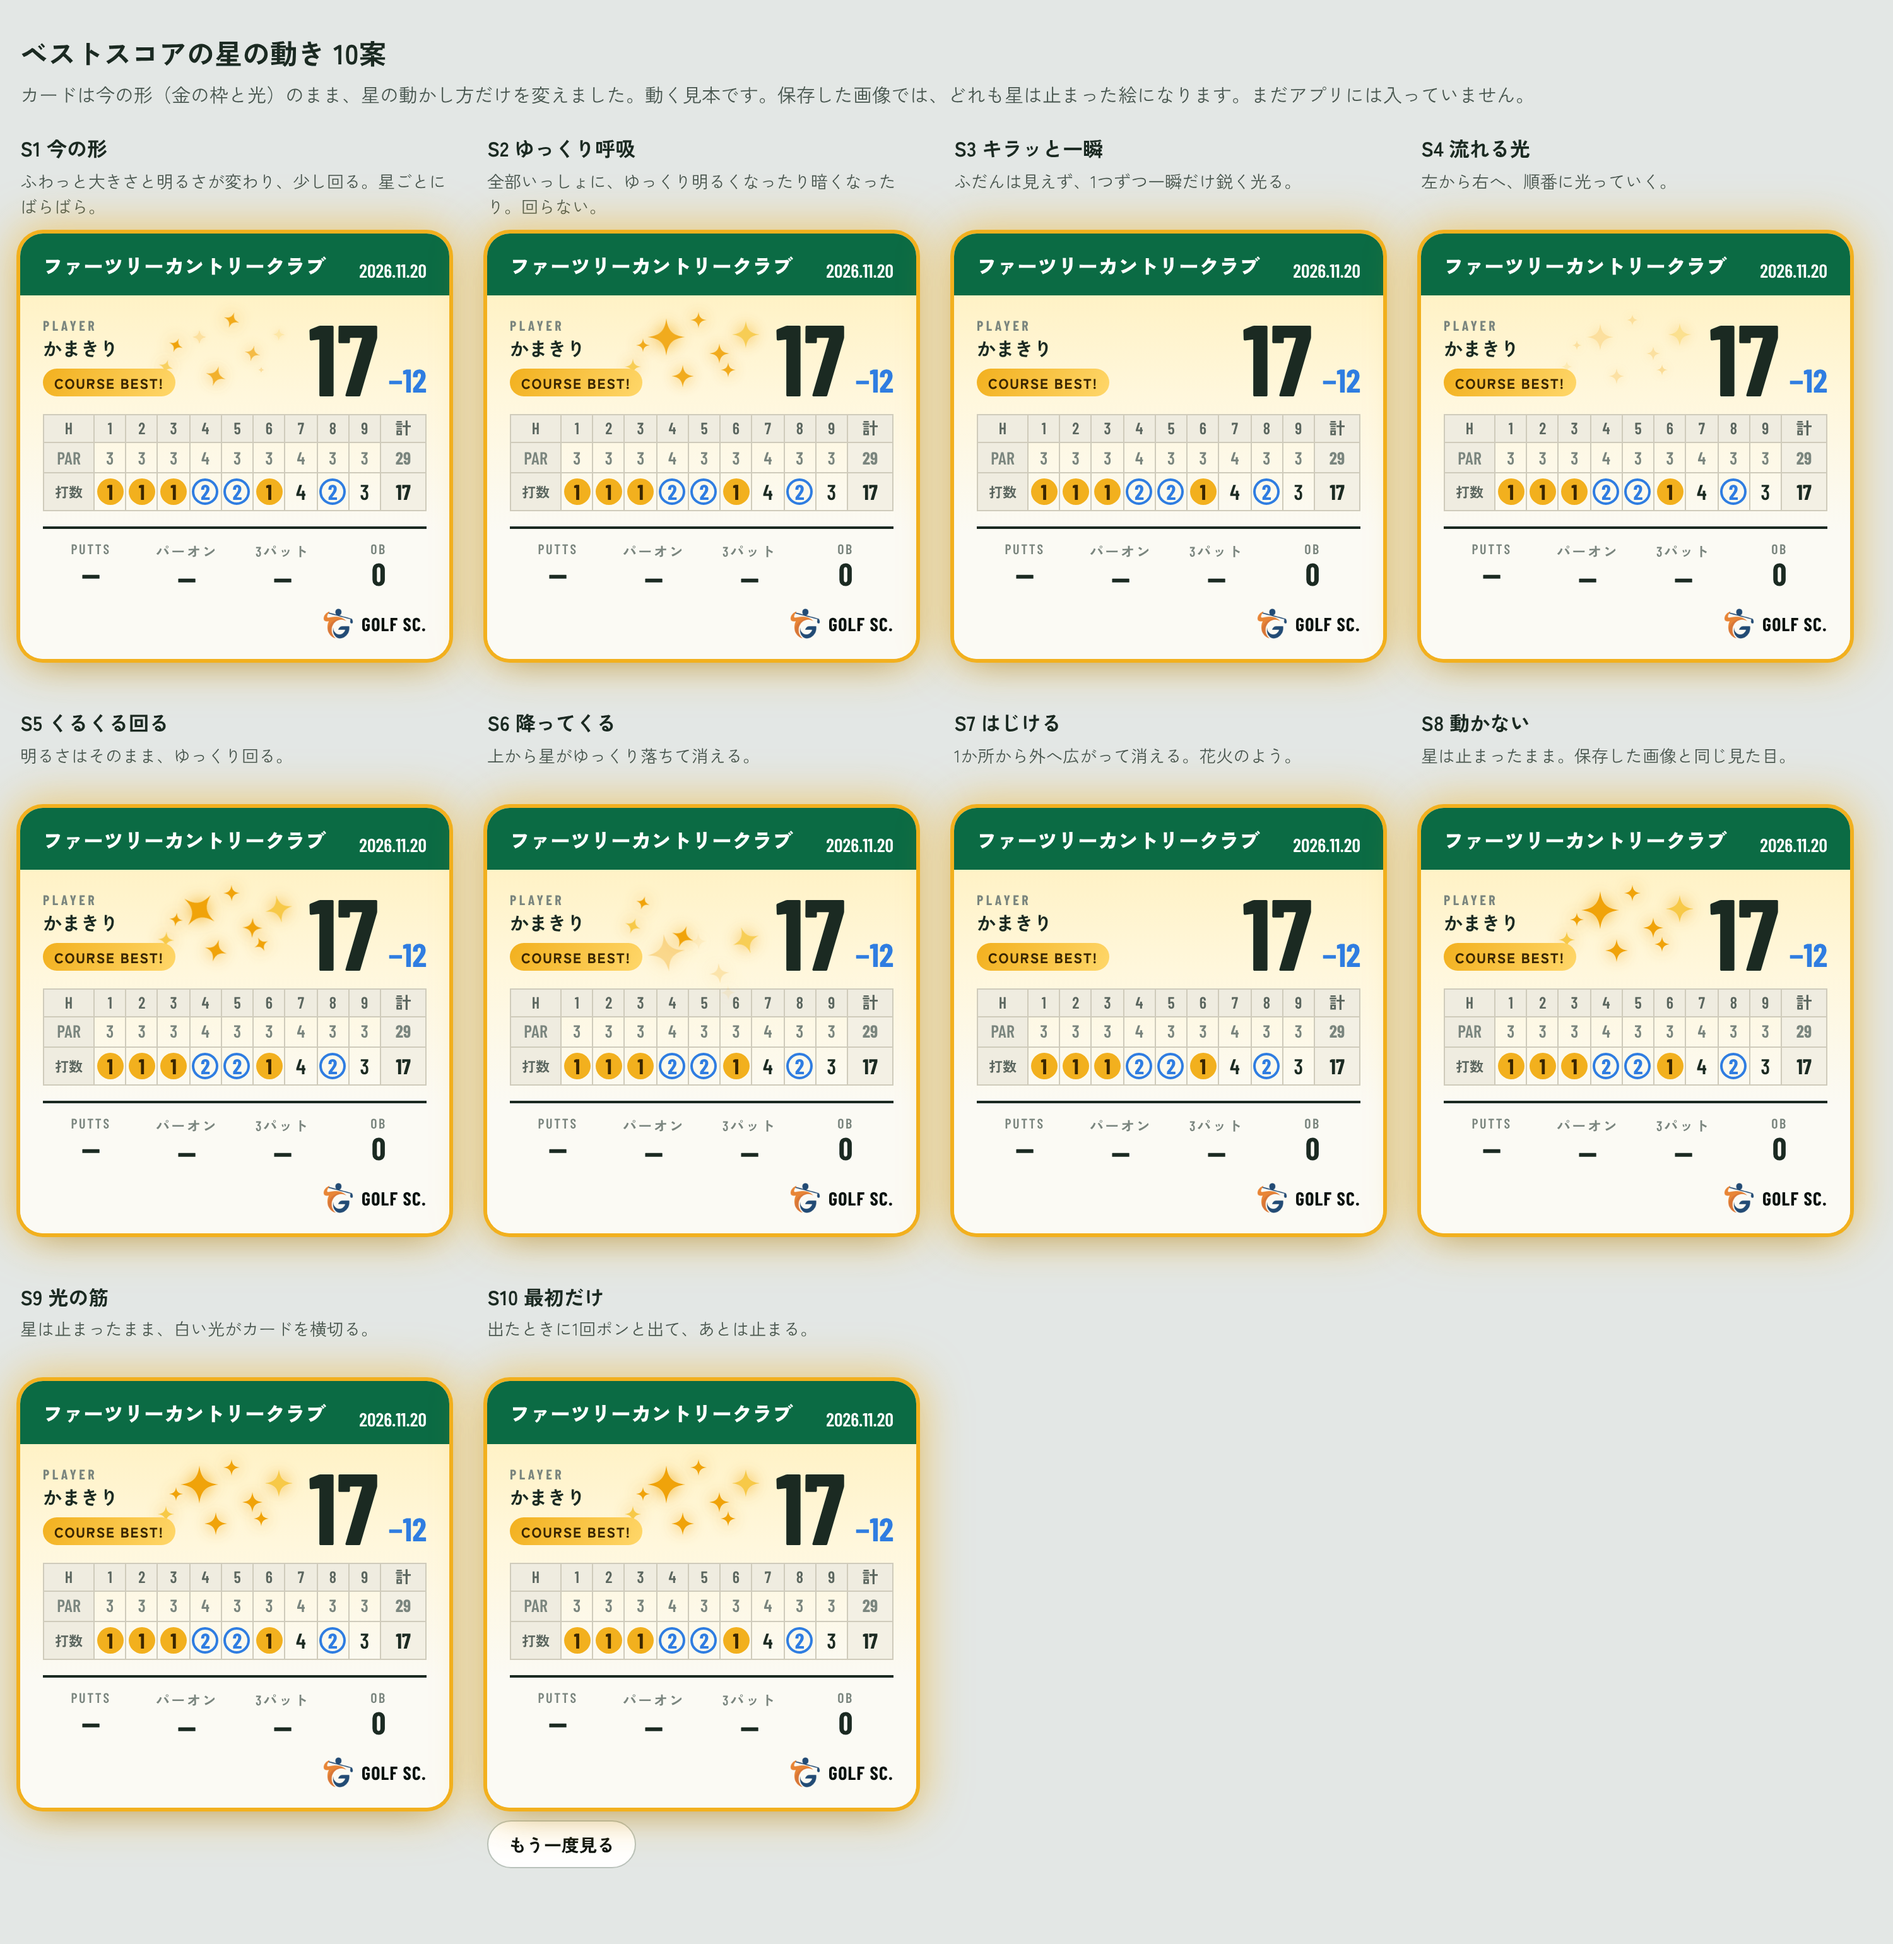
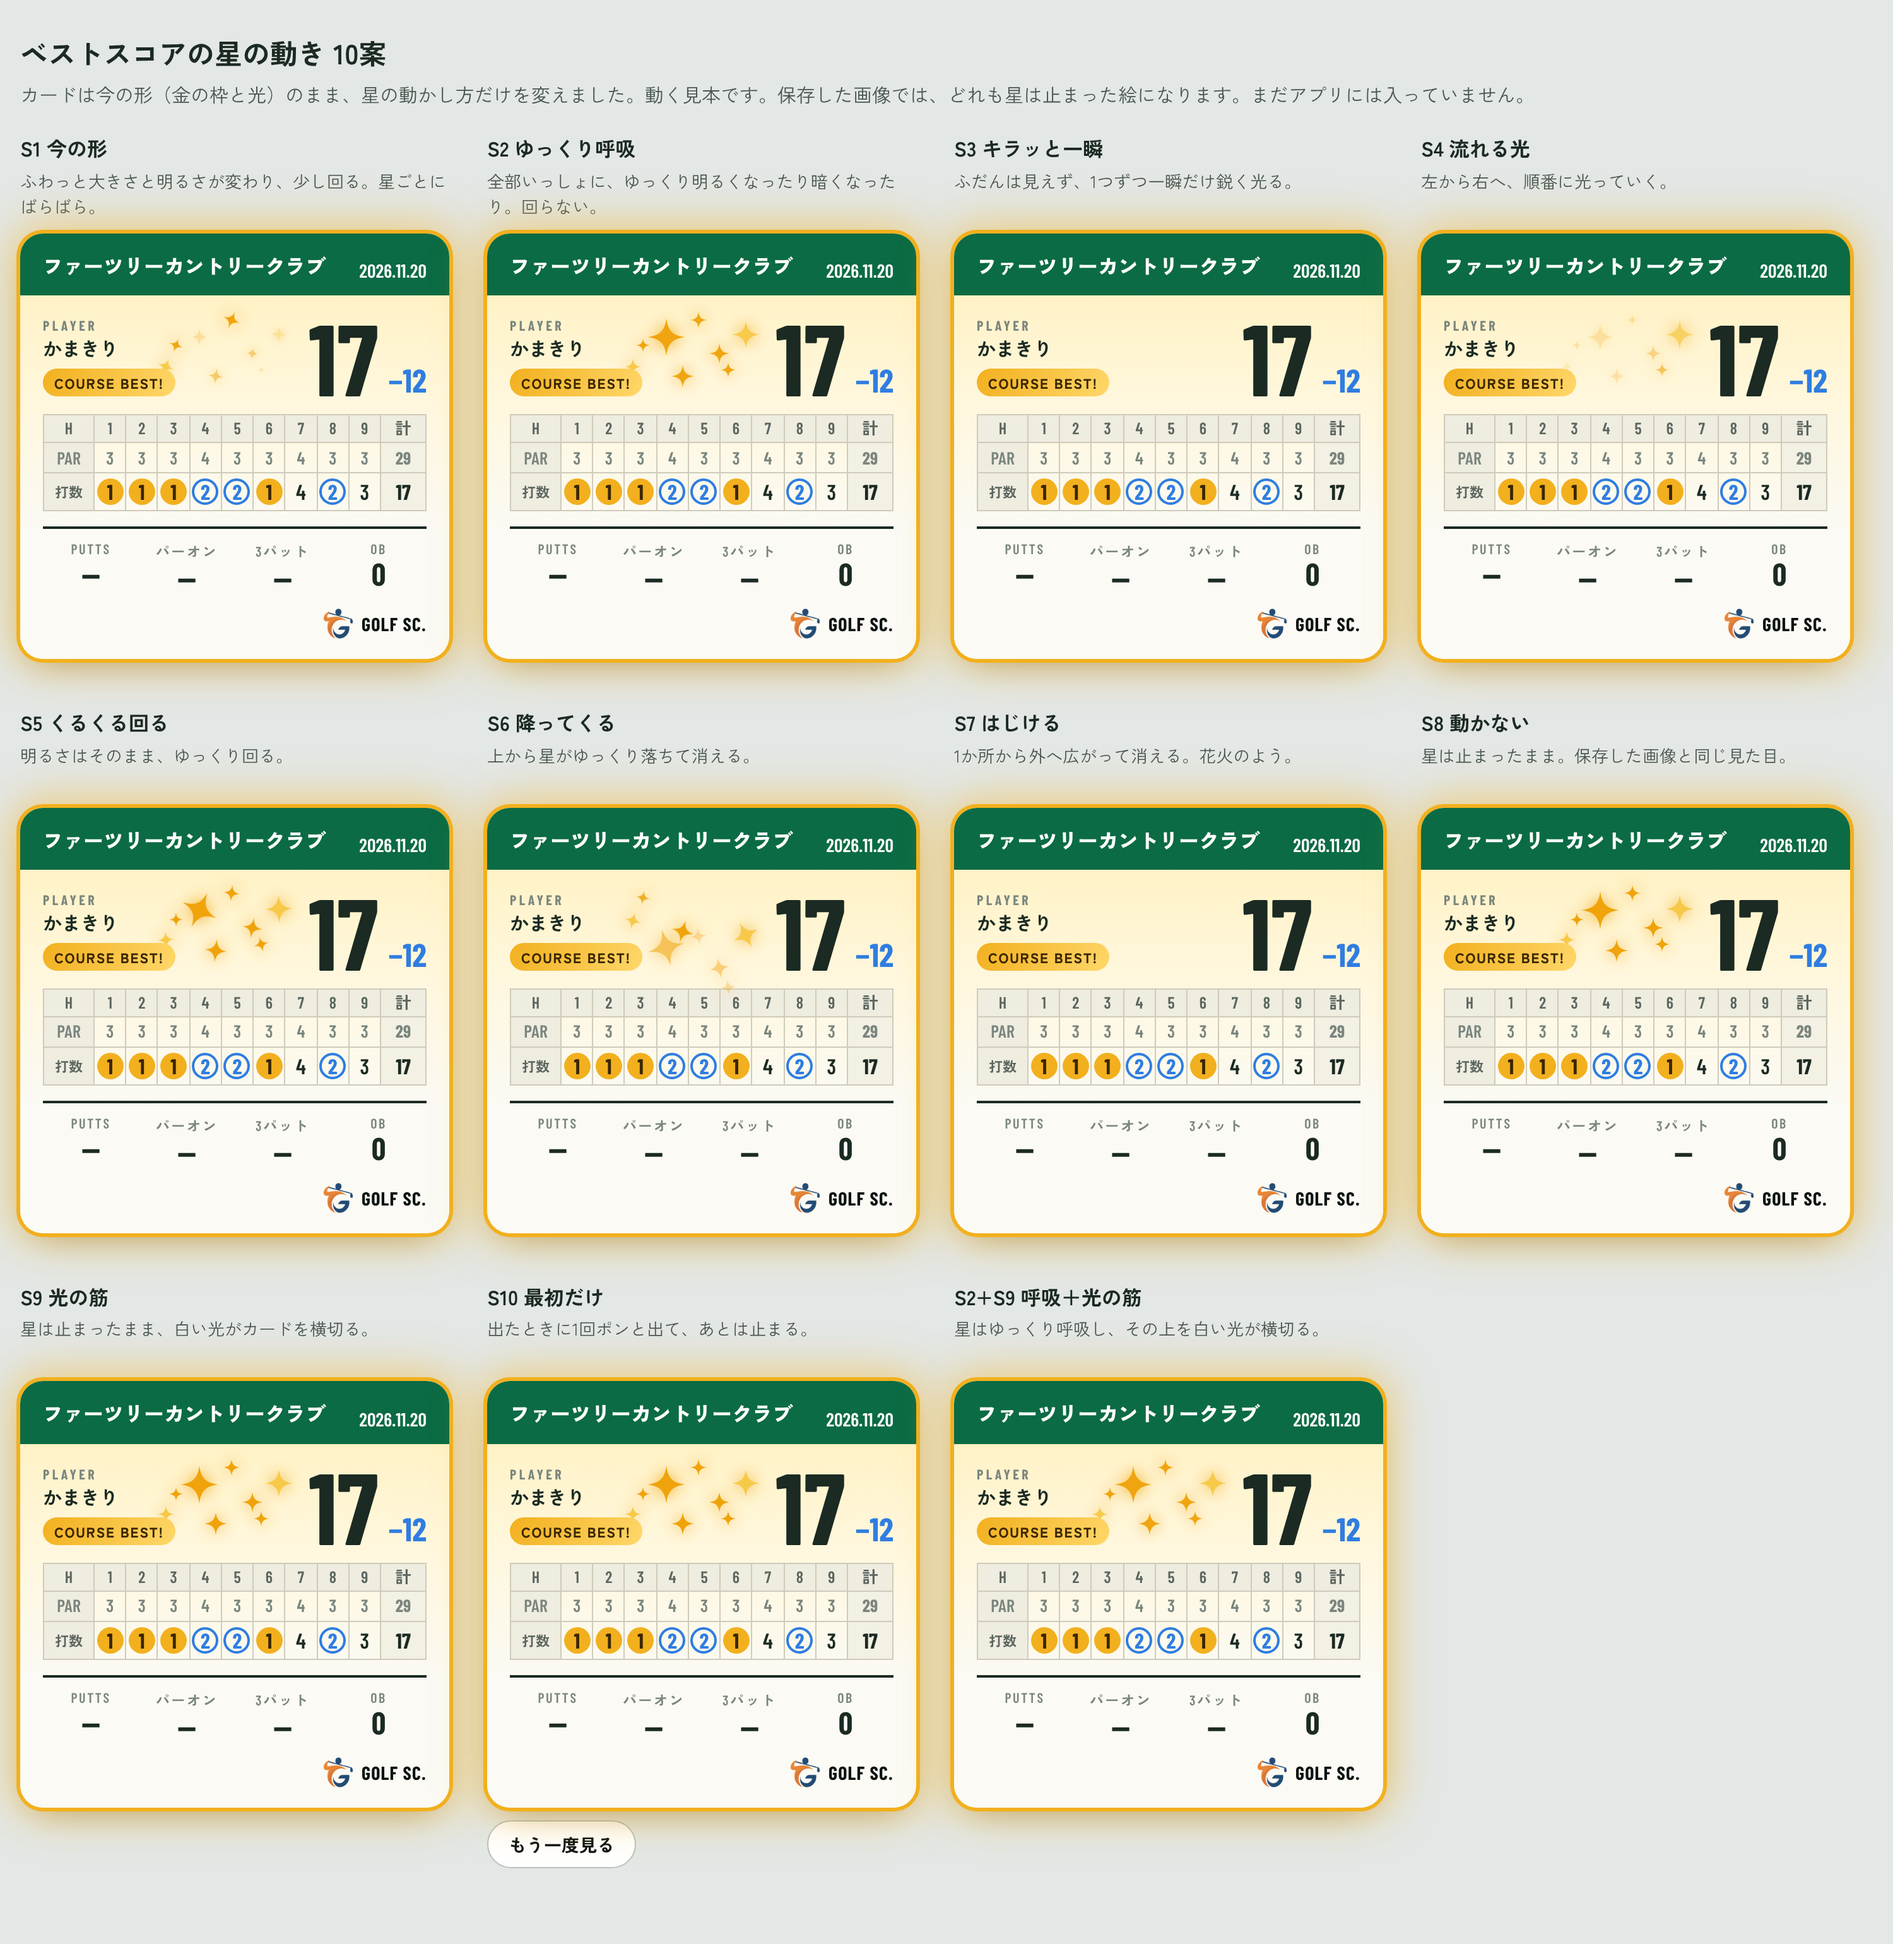
星の動きの見本に S2+S9 の組み合わせを追加
Claude-Session: https://claude.ai/code/session_01PTWrBZrvvJ3gzCTGTNk6Jh

Changed region(s): [[0.496, 0.6545, 0.744, 0.9662], [0.341, 0.4675, 0.372, 0.4987]]

diff --git a/design/best-stars-2026-11-28.html b/design/best-stars-2026-11-28.html
@@ -185,10 +185,11 @@ var OPT=[
  ["S7 はじける","1か所から外へ広がって消える。花火のよう。"],
  ["S8 動かない","星は止まったまま。保存した画像と同じ見た目。"],
  ["S9 光の筋","星は止まったまま、白い光がカードを横切る。"],
- ["S10 最初だけ","出たときに1回ポンと出て、あとは止まる。"]
+ ["S10 最初だけ","出たときに1回ポンと出て、あとは止まる。"],
+ ["S2+S9 呼吸＋光の筋","星はゆっくり呼吸し、その上を白い光が横切る。"]
 ];
 function card(i){var T=tbl(p,PAR), tot=sum(p.s,0,9), d=tot-29;
- return '<div class="card c1 s'+(i+1)+'">'+(i==8?'<div class="sweep"></div>':'')+'<div class="band"><b>'+COURSE+'</b><span>2026.11.20</span></div><div class="pad"><div class="who">'+stars()+'<div class="n" style="position:relative"><div class="h2">PLAYER</div>'+p.n+'<br><span class="flag">COURSE BEST!</span></div><div class="tot" style="position:relative"><b style="font-weight:700">'+tot+'</b><i style="color:#2F7DE1">'+tp(d)+'</i></div></div><div style="margin-top:14px">'+T+'</div>'+ST.replace('<b>15</b>','<b>—</b>').replace('<b>56%</b>','<b>—</b>').replace('<div><span>3パット</span><b>0</b>','<div><span>3パット</span><b>—</b>')+'<div class="ft">'+LOGO+'</div></div></div>';}
+ return '<div class="card c1 '+(i==10?'s2':'s'+(i+1))+'">'+(i==8||i==10?'<div class="sweep"></div>':'')+'<div class="band"><b>'+COURSE+'</b><span>2026.11.20</span></div><div class="pad"><div class="who">'+stars()+'<div class="n" style="position:relative"><div class="h2">PLAYER</div>'+p.n+'<br><span class="flag">COURSE BEST!</span></div><div class="tot" style="position:relative"><b style="font-weight:700">'+tot+'</b><i style="color:#2F7DE1">'+tp(d)+'</i></div></div><div style="margin-top:14px">'+T+'</div>'+ST.replace('<b>15</b>','<b>—</b>').replace('<b>56%</b>','<b>—</b>').replace('<div><span>3パット</span><b>0</b>','<div><span>3パット</span><b>—</b>')+'<div class="ft">'+LOGO+'</div></div></div>';}
 var h='';for(var i=0;i<OPT.length;i++)h+='<div class="item" id="it'+i+'"><h3>'+OPT[i][0]+'</h3><p>'+OPT[i][1]+'</p><div class="cw">'+card(i)+'</div>'+(i==9?'<button class="again" onclick="var c=this.parentNode.querySelector(\'.cw\');c.innerHTML=card(9)">もう一度見る</button>':'')+'</div>';
 document.getElementById('g').innerHTML=h;
 </script></body></html>
